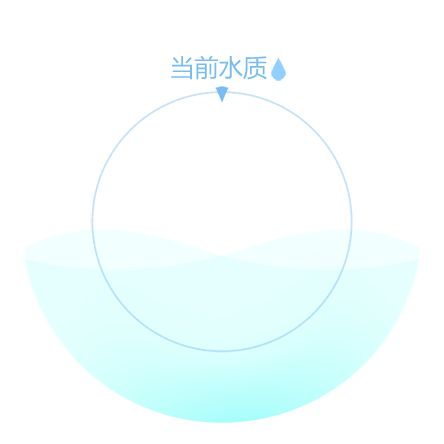
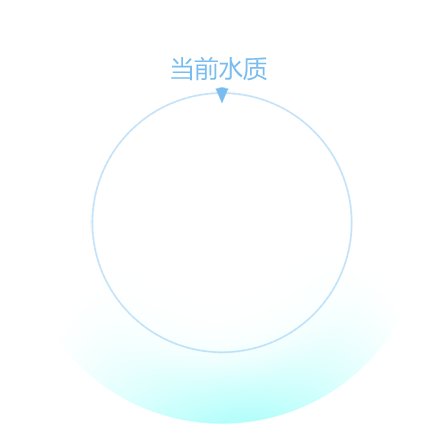
首页水波效果，断水提醒

diff --git a/app/src/components/home.js b/app/src/components/home.js
@@ -6,7 +6,7 @@ import { Swiper, Slide } from 'react-dynamic-swiper';
 import '../../node_modules/react-dynamic-swiper/lib/styles.css';
 import {withRouter} from 'react-router-dom';
 import _ from 'lodash';
-import {ui_setcurrentdeviceid,senddevicecmd_request} from '../actions/index.js';
+import {ui_setcurrentdeviceid,senddevicecmd_request, set_weui} from '../actions/index.js';
 import Waterwave from './waterwave.js';
 
 let swiperOptions = {
@@ -146,7 +146,11 @@ let DeviceSwiper =(props)=>{
                                     backgroundSize: "220px 220px"
                                 }}
                           >
-                              <img src="img/1.png" className="bg"/>
+                              
+                                <div className="waterwave">
+                                    <div><Waterwave id={deviceid}/></div>
+                                </div>
+                                <img src="img/1.png" className="bg"/>
                               {getdata?(
                                   <div className="headContentInfo">
                                       <span className="i1">{modeltype}</span>
@@ -220,8 +224,26 @@ export class Page extends Component {
         }
 
         let ClickRadio = (iswatercut)=> {
-            let deviceid = devices[curdeviceid].deviceid;
-            props.dispatch(senddevicecmd_request({deviceid,cmd: 0,value:!iswatercut}));
+
+            let text = iswatercut?"你确认需要断水吗？":"你确认要开通水源吗？";
+            props.dispatch(
+                set_weui({
+                    confirm:{
+                        show : true,
+                        title : "确认收货",
+                        text : text,
+                        //
+                        buttonsClose : ()=>{},
+                        //确认收货
+                        buttonsClick : ()=>{
+                            let deviceid = devices[curdeviceid].deviceid;
+                            props.dispatch(senddevicecmd_request({deviceid,cmd: 0,value:!iswatercut}));
+                        }
+                    }}
+                )
+            )
+
+            
         }
 
         return (
@@ -240,10 +262,7 @@ export class Page extends Component {
 
                     { mydevicelist.length === 0 &&  <Nodevice />}
                     { mydevicelist.length > 0 &&  <DeviceSwiper mydevicelist={mydevicelist} devices={devices} />}
-
-                    { !!curdevicedata && (curdevicedata.hasOwnProperty("leftmodel") || curdevicedata.hasOwnProperty("rightmodel"))  &&
-                        <Waterwave />
-                    }
+                    
                     { !!curdevicedata && (curdevicedata.hasOwnProperty("leftmodel") || curdevicedata.hasOwnProperty("rightmodel"))  &&
                         <HeadInfo curdevicedata={curdevicedata}/>
                     }

diff --git a/app/src/components/waterwave.js b/app/src/components/waterwave.js
@@ -7,24 +7,26 @@ class Page extends React.Component {
   // }
 
     componentDidMount () {
+
+      const id = this.props.id;
       //波浪动画
-      const svg_height = 200;
-      const svg_width = 500;
+      const svg_height = 310;
+      const svg_width = 200;
       const wave_data = [[],[]];
       console.log(d3);
       const area = d3.area().y0(svg_height).curve(d3.curveBasis);  //curve会进行平滑处理
       const svg_paths = [];
-      const max = 100;  //控制速度
+      const max = 200;  //控制速度
       for (let i=0; i<max; i++) {
         const r = i / max * 2;
         wave_data[0].push(r);           //波浪一
         wave_data[1].push(r + 1);   //波浪二（+1代表偏移π）
       }
       const d = svg_width/(wave_data[0].length-1);
-      svg_paths.push(d3.select('#svg-area path:first-child'));
-      svg_paths.push(d3.select('#svg-area path:last-child'));
+      svg_paths.push(d3.select(`#svg-area-${id} path:first-child`));
+      svg_paths.push(d3.select(`#svg-area-${id} path:last-child`));
       function area_generator(data) {
-        const wave_height = 0.15;     //波浪高度
+        const wave_height = 0.10;     //波浪高度
         const area_data = data.map( function(y,i) {
           return [i * d, svg_height*(1 - (wave_height*Math.sin(y*Math.PI) + 2)/3)]; //+2将范围[-1,1]转成[1,3]
         } );
@@ -48,10 +50,11 @@ class Page extends React.Component {
    }
 
     render() {
+        const {id} = this.props;
         return (
-          <svg id="svg-area" width="500" height="200">
-            <path fill="rgba(33, 150, 243, 0.4)"></path>
-            <path fill="rgba(33, 150, 243, 0.6)"></path>
+          <svg id={`svg-area-${id}`} width="500" height="200">
+            <path fill="rgba(127, 254, 248, 0.1)"></path>
+            <path fill="rgba(127, 254, 248, 0.2)"></path>
           </svg>
         );
     }

diff --git a/app/src/components/myprofile/topiclist.js b/app/src/components/myprofile/topiclist.js
@@ -3,8 +3,6 @@ import NavBar from '../newnav.js';
 import { Input, Button, Menu, Icon } from 'semantic-ui-react';
 import '../../../public/css/mytopiclist.css';
 import Bigimg from '../tools/bigimg.js';
-import { InfiniteLoader, List } from 'react-virtualized';
-import 'react-virtualized/styles.css'; // only needs to be imported once
 import { connect } from 'react-redux';
 import moment from 'moment';
 import {ui_setmytopiclistinited,getmytopic_request} from '../../actions';

diff --git a/app/public/css/home.css b/app/public/css/home.css
@@ -308,3 +308,22 @@
     font-size:18px;
     padding-top: 20px;
 }
+.homePage .waterwave{
+    height: 190px;
+    width: 100%;
+    position: absolute;
+    top: 24px;
+    overflow: hidden;
+    border-radius: 250px;
+    padding-right: 18px;
+    z-index: 0;
+}
+.homePage .waterwave >div{
+    width: 196px;
+    height: 190px;
+    margin: auto;
+    overflow:  hidden;
+    border-radius: 190px;
+}
+
+
